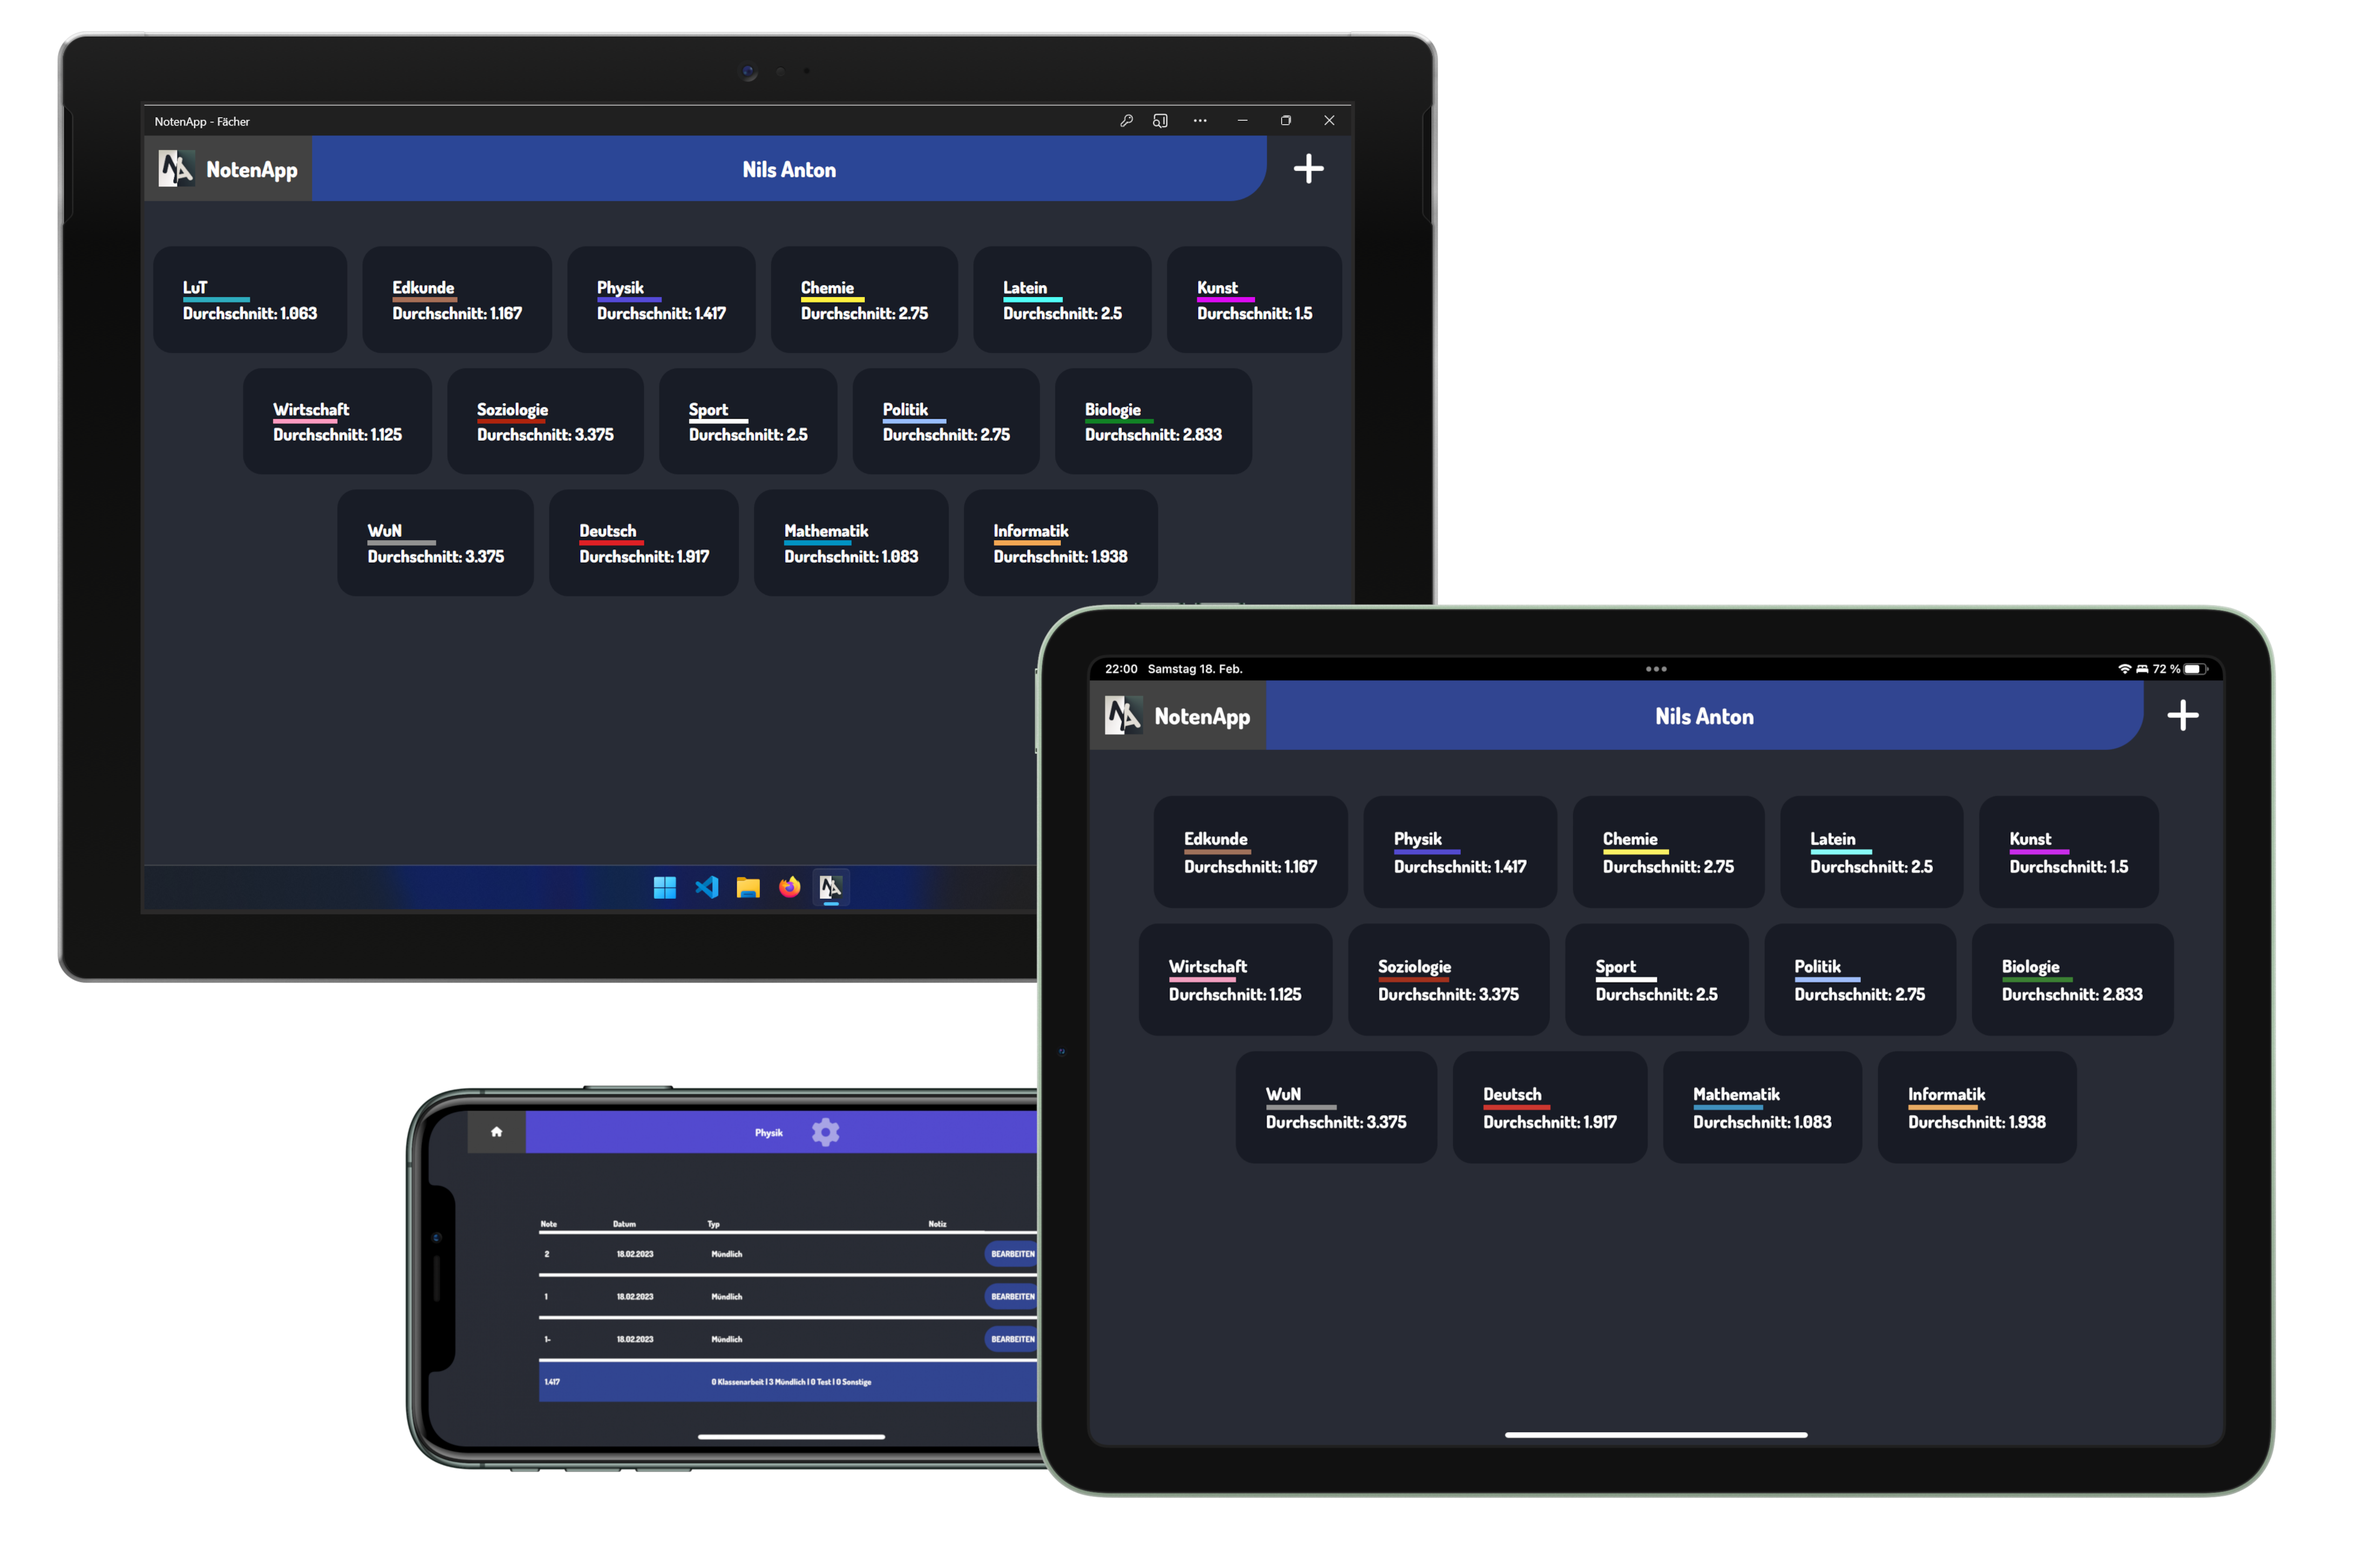
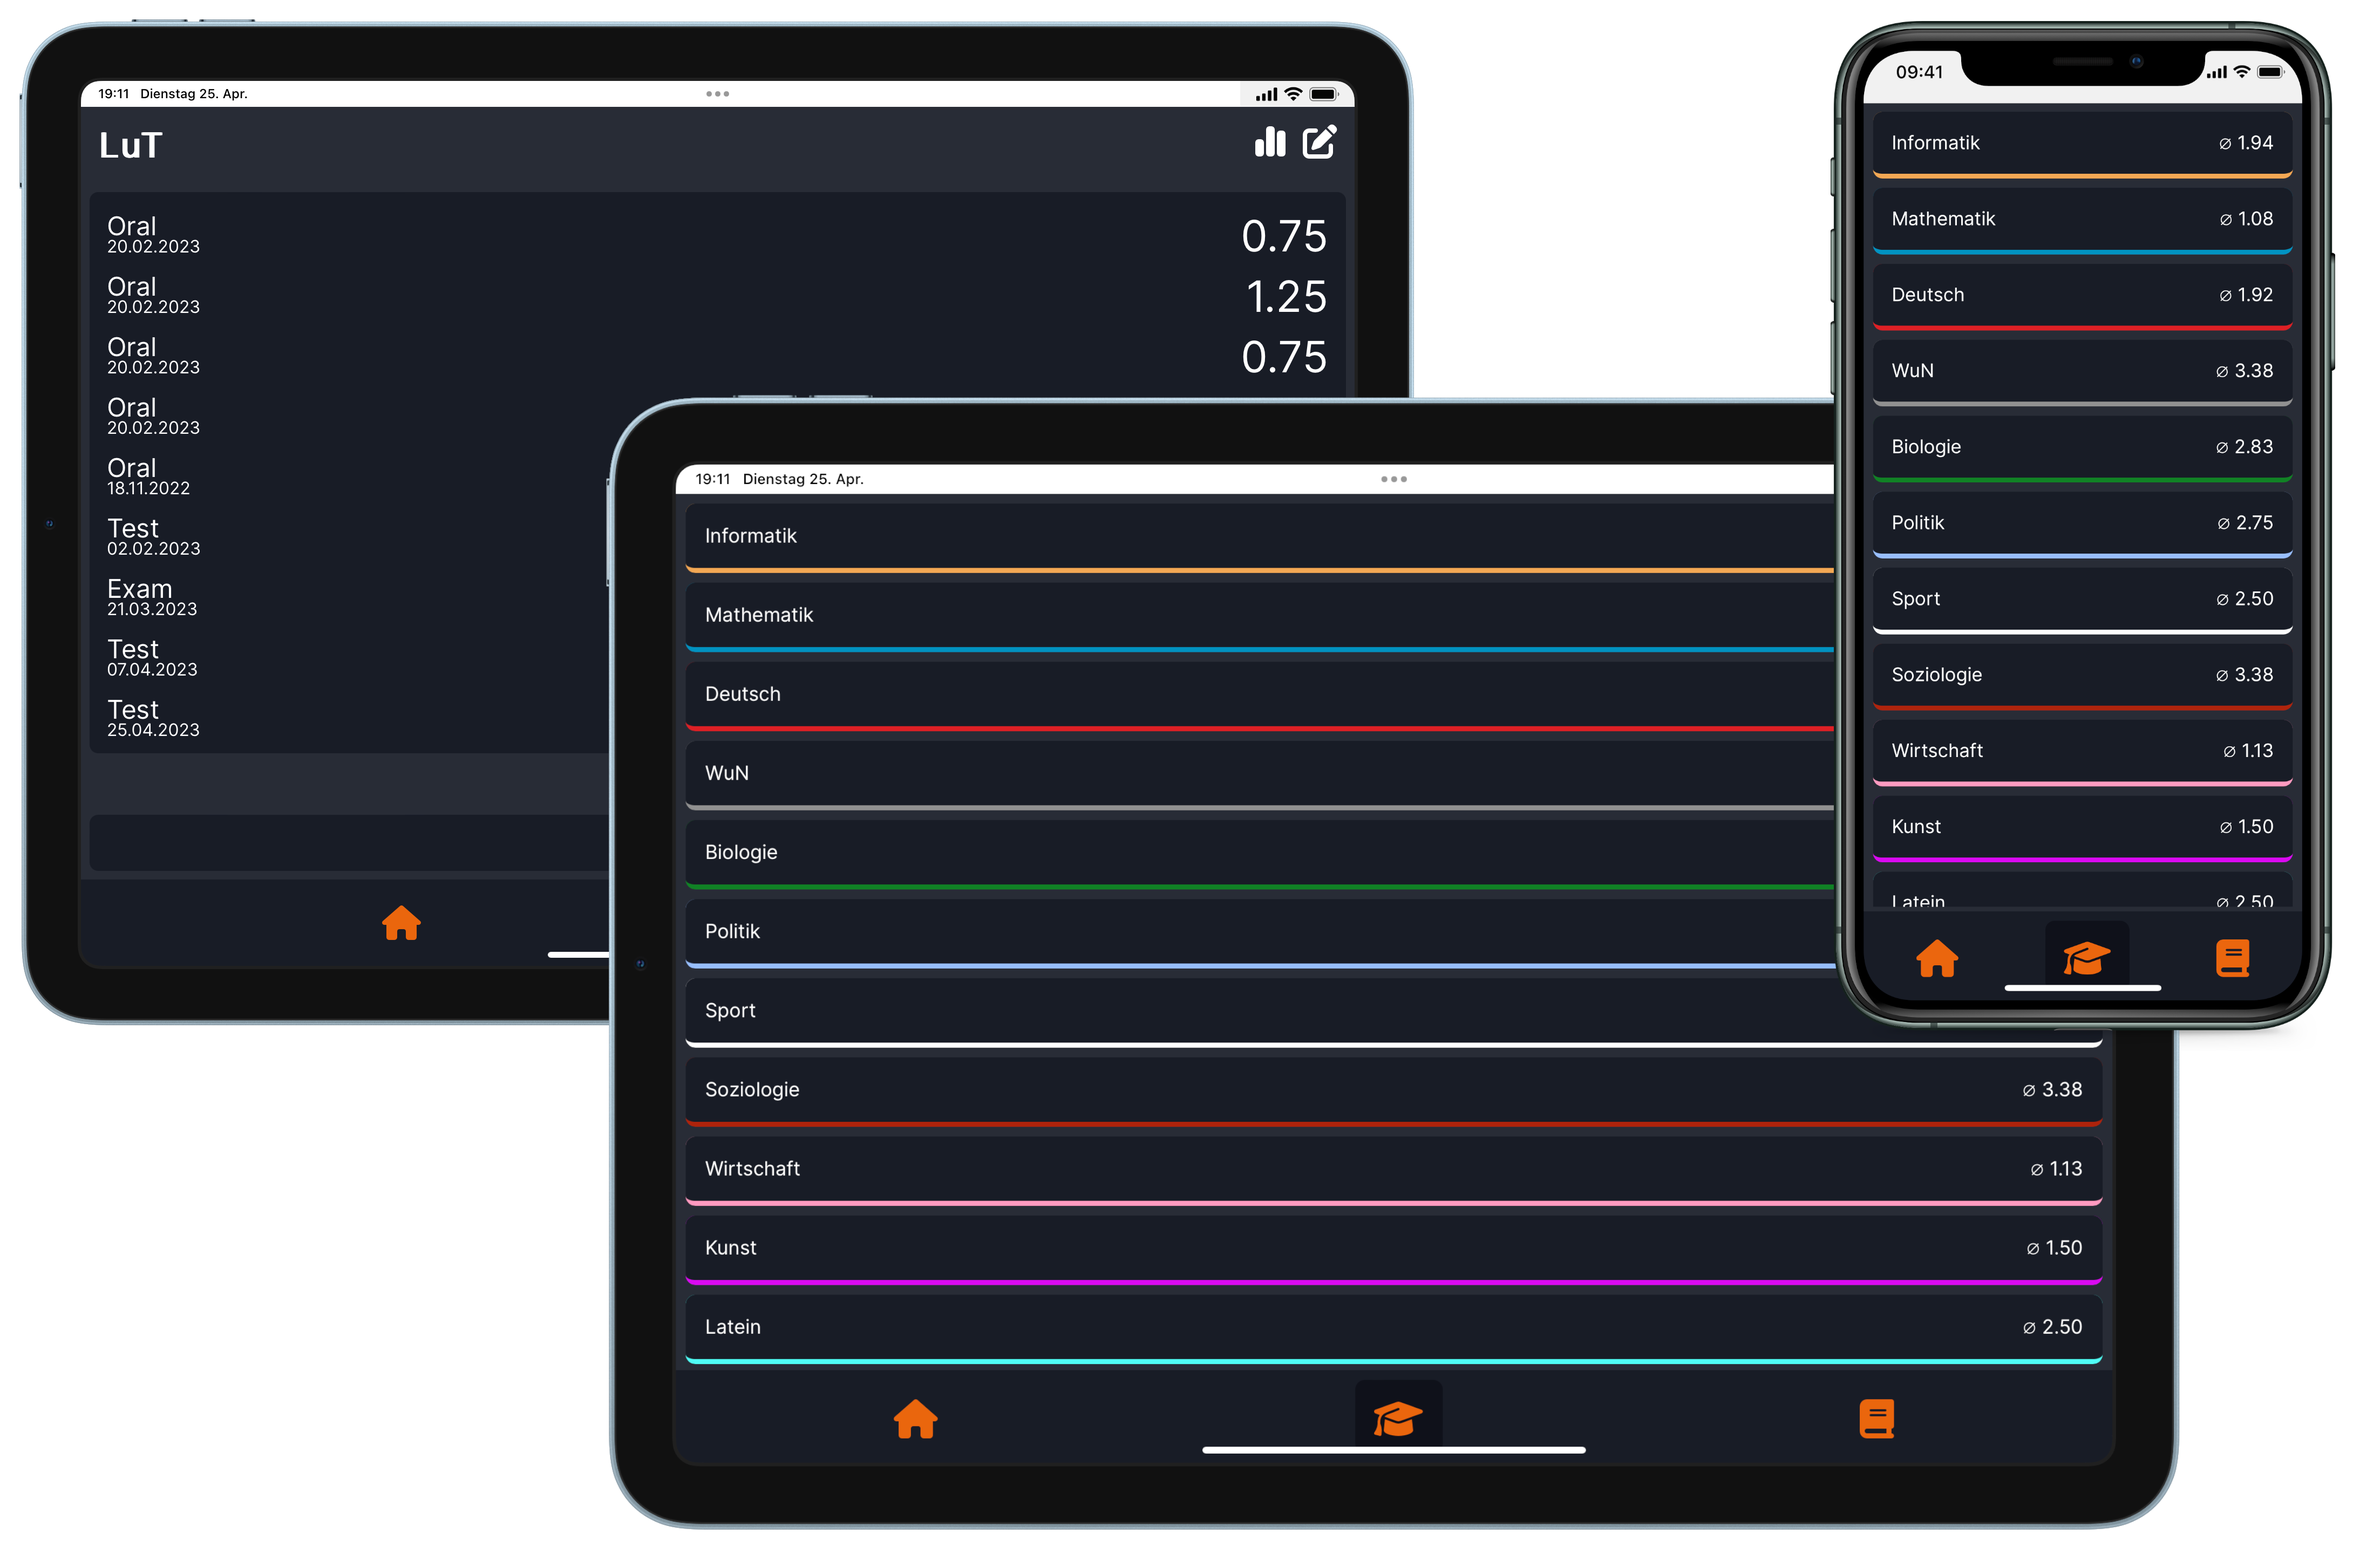
Add new product images

diff --git a/index.html b/index.html
@@ -58,7 +58,7 @@
                 </div>
             </div>
             <div class="main_row_image">
-                <img src="/src/images/prodcutImages/homeIpadGreen.png" alt="" srcset="">
+                <img src="/src/images/prodcutImages/classViewIpadAirBlue.png" alt="" srcset="">
             </div>
         </div>
         <div class="main_row_text_right main_row">
